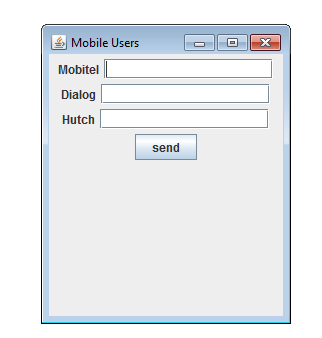
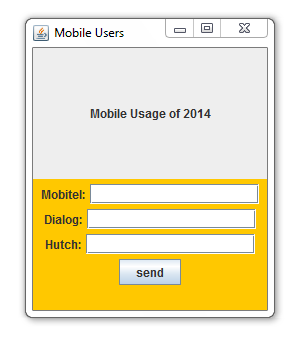
changed form Layout

diff --git a/Assingment/src/org/mobile/java/MobileView.java b/Assingment/src/org/mobile/java/MobileView.java
@@ -2,6 +2,7 @@ package org.mobile.java;
 
 import java.awt.Color;
 import java.awt.FlowLayout;
+import java.awt.GridLayout;
 import java.awt.event.ActionEvent;
 import java.awt.event.ActionListener;
 import java.util.ArrayList;
@@ -15,9 +16,10 @@ import javax.swing.JTextField;
 public class MobileView extends JFrame implements ActionListener{
 	
 	private JFrame mainFrame;
-	private JPanel labelPanel;	
+	private JPanel labelPanel;
+	
 	private JButton sendButton;	
-	private JLabel mobitelLabel,dialogLabel,hutchLabel,lbl4; 
+	private JLabel mobitelLabel,dialogLabel,hutchLabel,headerLabel; 
 	private JTextField mobitelTextFeild,dialogTextFeild,hutchTextFeild;
 	private ArrayList dataList;	
 	private int mobitelText;
@@ -33,29 +35,43 @@ public class MobileView extends JFrame implements ActionListener{
 	private void prepareGUI(){		
 		
 		mainFrame = new JFrame("Mobile Users");		
-		mainFrame.setLayout(new FlowLayout());		
+		mainFrame.setLayout(new GridLayout(2,1));	
+		headerLabel = new JLabel("Mobile Usage of 2014",JLabel.CENTER);
+		headerLabel.setSize(50,150);
+		headerLabel.setBackground(Color.lightGray);		
 		
-		mobitelLabel = new JLabel("Mobitel:");	
+		labelPanel=new JPanel();
+		labelPanel.setLayout(new FlowLayout());
+		labelPanel.setBackground(Color.ORANGE);
+		labelPanel.setSize(200,350);			
+		
+		mobitelLabel = new JLabel("Mobitel:");//mobitelLabel.setBounds(100, 50, 50, 50);mobitelLabel.setBackground(Color.BLUE);
 		dialogLabel = new JLabel("Dialog:");
 		hutchLabel = new JLabel("Hutch:");
 		
-		mobitelLabel.setBounds(100, 50, 50, 50);
-		mobitelLabel.setBackground(Color.BLUE);
+		mobitelLabel.setSize(150, 50);
+		dialogLabel.setSize(150, 50);
+		hutchLabel.setSize(150, 50);
 		
 		mobitelTextFeild = new JTextField(15);
 		dialogTextFeild = new JTextField(15);
 		hutchTextFeild = new JTextField(15);
 		
 		sendButton = new JButton("send");
+		sendButton.setSize(100,50);
+		
 		sendButton.setActionCommand("show");
 		sendButton.addActionListener(this);
 		
-		mainFrame.add(mobitelLabel);mainFrame.add(mobitelTextFeild);
-		mainFrame.add(dialogLabel);mainFrame.add(dialogTextFeild);
-		mainFrame.add(hutchLabel);mainFrame.add(hutchTextFeild);	
+		labelPanel.add(mobitelLabel);labelPanel.add(mobitelTextFeild);
+		labelPanel.add(dialogLabel);labelPanel.add(dialogTextFeild);
+		labelPanel.add(hutchLabel);labelPanel.add(hutchTextFeild);	
+		labelPanel.add(sendButton);	
 		
-		mainFrame.add(sendButton);	
+		mainFrame.add(headerLabel);
+		mainFrame.add(labelPanel);		
 		mainFrame.setSize(250,300);
+		mainFrame.setLocation(500, 200);
 		mainFrame.setVisible(true);
 	}
 	
